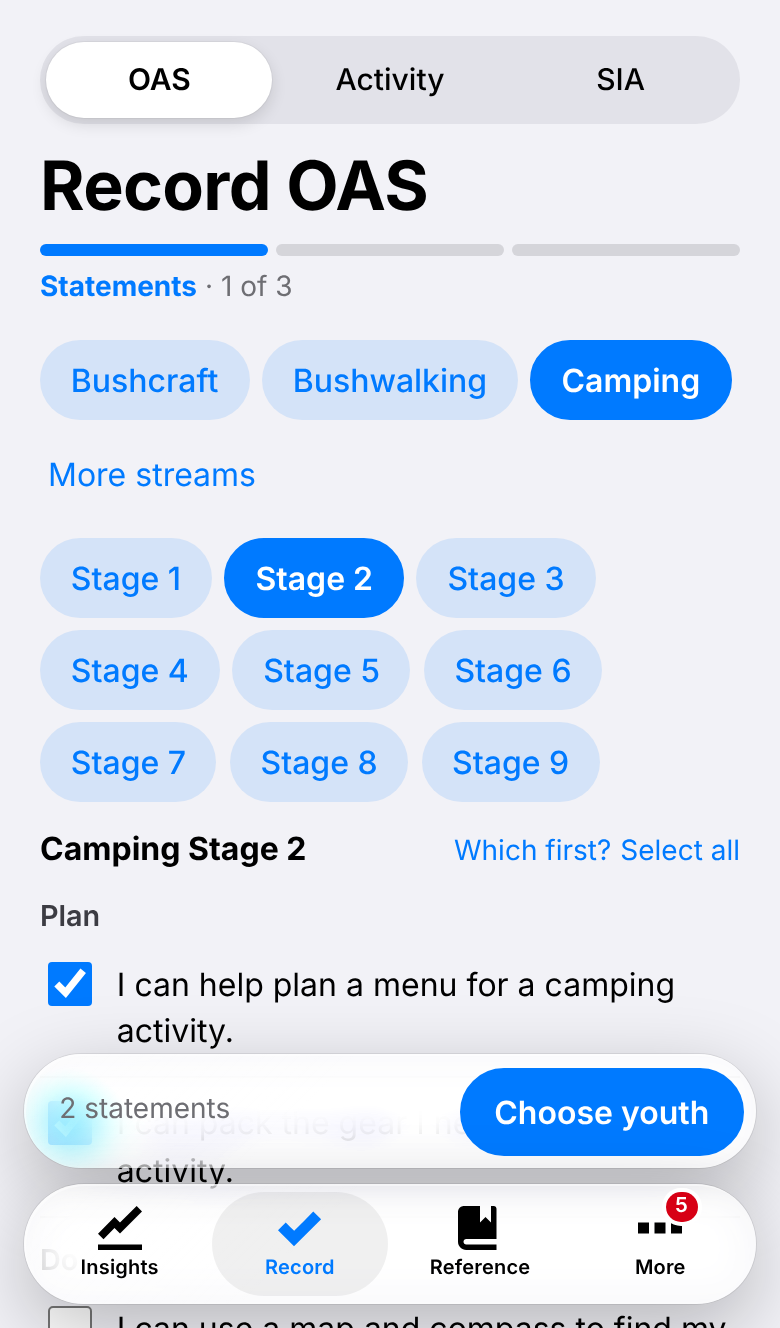
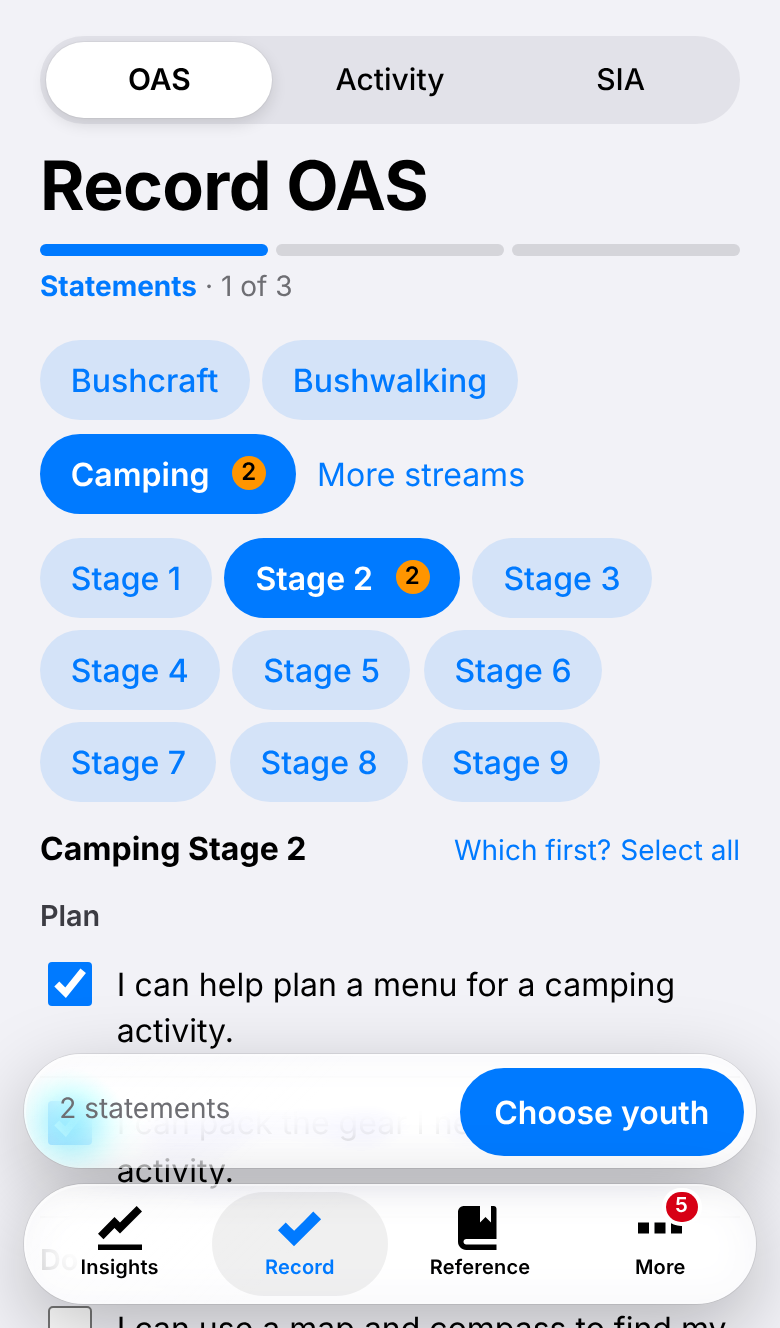
README: screenshots of Patrols, Flow and the youth view, and the others retaken
The screenshots are retaken for the pages that changed (Approvals' tabs, Record's switch, Progress
details, Info), and three are added: Patrols, Insights' Flow, and a youth recording their own OAS.
The screenshot script signs in per shot, so a shot can use its own pretend unit (two units for Flow,
a youth for the youth view). The README's opening says what youth see.

Claude-Session: https://claude.ai/code/session_015mRLp29RKmPLuQrvmduhrB

Changed region(s): [[0.0308, 0.3087, 0.6769, 0.4014], [0.6769, 0.247, 0.9538, 0.3396], [0.4923, 0.4014, 0.8308, 0.4631]]

diff --git a/tests/screenshots/readme.shots.ts b/tests/screenshots/readme.shots.ts
@@ -1,7 +1,7 @@
 // Takes the README's screenshots into docs/screenshots. Every name in them is made up, from the same fake
 // Terrain the page tests use.
 import { expect, test, type Page } from '@playwright/test';
-import { fakeTerrain, logIn, navigate } from '../e2e/terrain.js';
+import { fakeTerrain, logIn, navigate, type FakeOptions } from '../e2e/terrain.js';
 
 const shot = (page: Page, name: string) =>
 	page.screenshot({ path: `docs/screenshots/${name}.png`, animations: 'disabled' });
@@ -19,19 +19,22 @@ const scrollTo = (page: Page, selector: string) =>
 // Sharp on a phone screen without making the README heavy
 test.use({ colorScheme: 'light', deviceScaleFactor: 2 });
 
-test.beforeEach(async ({ page }) => {
-	await fakeTerrain(page, { moreAwards: true });
+/** Signs in to the made-up unit, past the Home Screen hint */
+async function start(page: Page, options: FakeOptions = { moreAwards: true }) {
+	await fakeTerrain(page, options);
 	await logIn(page);
 	await page.getByRole('button', { name: "Don't show again" }).click();
-});
+}
 
 test('info', async ({ page }) => {
+	await start(page);
 	await navigate(page, 'info/');
 	await expect(page.locator('h2').first()).toBeVisible();
 	await shot(page, 'info');
 });
 
 test('insights', async ({ page }) => {
+	await start(page);
 	await navigate(page, 'insights/');
 	await expect(page.locator('.heatmap')).toBeVisible();
 	await scrollTo(page, 'h3:has-text("Unit completion")');
@@ -39,6 +42,7 @@ test('insights', async ({ page }) => {
 });
 
 test('record OAS', async ({ page }) => {
+	await start(page);
 	await navigate(page, 'oas/sign-off/');
 	await page.getByRole('button', { name: 'Camping', exact: true }).click();
 	await page.getByRole('button', { name: 'Stage 2', exact: true }).click();
@@ -51,6 +55,7 @@ test('record OAS', async ({ page }) => {
 });
 
 test('progress', async ({ page }) => {
+	await start(page);
 	await navigate(page, 'progress/');
 	await page.locator('.youth').first().click();
 	await expect(page.locator('.stage-detail').first()).toBeVisible();
@@ -58,12 +63,14 @@ test('progress', async ({ page }) => {
 });
 
 test('approvals', async ({ page }) => {
+	await start(page);
 	await navigate(page, 'approvals/');
 	await expect(page.locator('.approval-card').first()).toBeVisible();
 	await shot(page, 'approvals');
 });
 
 test('reference', async ({ page }) => {
+	await start(page);
 	await navigate(page, 'oas-reference/');
 	await page.getByRole('button', { name: 'Stage 2', exact: true }).click();
 	const statement = page.locator('.statement', { hasText: 'map and compass' }).first();
@@ -72,4 +79,37 @@ test('reference', async ({ page }) => {
 	await scrollTo(page, '.statement');
 	await page.evaluate(() => window.scrollBy(0, -40));
 	await shot(page, 'reference');
+});
+
+test('patrols', async ({ page }) => {
+	await start(page);
+	await navigate(page, 'patrols/');
+	await expect(page.locator('.patrol').first()).toBeVisible();
+	await expect(page.locator('.percent').first()).toBeVisible();
+	await shot(page, 'patrols');
+});
+
+test('flow', async ({ page }) => {
+	await start(page, {
+		units: [
+			{ id: 'unit-1', name: 'Mt Example Scouts', section: 'scout' },
+			{ id: 'cub-1', name: 'Mt Example Cubs', section: 'cub' }
+		]
+	});
+	await page.selectOption('#page-unit', 'unit-1');
+	await page.getByRole('tab', { name: 'Flow' }).click();
+	await expect(page.locator('.chart > li').first()).toBeVisible();
+	await page.locator('.chart > li').first().locator('summary').click();
+	await scrollTo(page, '.flow-card');
+	await shot(page, 'flow');
+});
+
+test('youth record OAS', async ({ page }) => {
+	await start(page, { youth: true });
+	await page.locator('.tab-bar .tab', { hasText: 'Record' }).click();
+	await page.selectOption('#stage', { label: 'Bushwalking 4' });
+	await expect(page.getByText('4 of 7 done in Terrain')).toBeVisible();
+	await page.getByRole('button', { name: 'Tick all remaining' }).click();
+	await page.evaluate(() => window.scrollTo(0, 0));
+	await shot(page, 'youth-record-oas');
 });

diff --git a/README.md b/README.md
@@ -1,18 +1,20 @@
 # Beacon
 
-Beacon is a phone-first helper for Scouts Australia leaders. It reads your unit's records from [Terrain](https://terrain.scouts.com.au) and turns them into the things you need at the hall: who's close to finishing what, what to programme next, and quick OAS sign offs after a unit night.
+Beacon is a phone-first helper for Scouts Australia leaders. It reads your unit's records from [Terrain](https://terrain.scouts.com.au) and turns them into the things you need at the hall: who's close to finishing what, what to programme next, and quick OAS sign offs after a unit night. Youth members get a view of their own: their progress, recording their own OAS, and Approvals when they're on the Unit Council.
 
 **Use it at https://no5tyle.github.io/Beacon/**, and add it to your phone's Home Screen. The OAS reference also installs on its own as Beacon Reference, which works without signal.
 
 ## Screenshots
 
-|                                                                           Info                                                                            |                                                                           Insights                                                                           |                                                               Record OAS                                                                |
-| :-------------------------------------------------------------------------------------------------------------------------------------------------------: | :----------------------------------------------------------------------------------------------------------------------------------------------------------: | :-------------------------------------------------------------------------------------------------------------------------------------: |
-|                                 <img src="docs/screenshots/info.png" width="240" alt="Info, with what each page is for">                                  | <img src="docs/screenshots/insights.png" width="240" alt="Insights: how many youth have completed each OAS stage, and the most common missing requirements"> |       <img src="docs/screenshots/record-oas.png" width="240" alt="Record OAS: choosing statements to sign off for several youth">       |
-|                                                                       **Progress**                                                                        |                                                                        **Approvals**                                                                         |                                                              **Reference**                                                              |
-| <img src="docs/screenshots/progress.png" width="240" alt="A youth's progress: who they are, their award and milestone at a glance, and their next steps"> |              <img src="docs/screenshots/approvals.png" width="240" alt="Approvals: submissions waiting for the Unit Council, grouped by youth">              | <img src="docs/screenshots/reference.png" width="240" alt="The OAS reference, with a statement expanded to show Terrain's explanation"> |
+|                                                                           Info                                                                            |                                                                           Insights                                                                           |                                                                             Record OAS                                                                             |
+| :-------------------------------------------------------------------------------------------------------------------------------------------------------: | :----------------------------------------------------------------------------------------------------------------------------------------------------------: | :----------------------------------------------------------------------------------------------------------------------------------------------------------------: |
+|                                 <img src="docs/screenshots/info.png" width="240" alt="Info, with what each page is for">                                  | <img src="docs/screenshots/insights.png" width="240" alt="Insights: how many youth have completed each OAS stage, and the most common missing requirements"> |                    <img src="docs/screenshots/record-oas.png" width="240" alt="Record OAS: choosing statements to sign off for several youth">                     |
+|                                                                       **Progress**                                                                        |                                                                        **Approvals**                                                                         |                                                                           **Reference**                                                                            |
+| <img src="docs/screenshots/progress.png" width="240" alt="A youth's progress: who they are, their award and milestone at a glance, and their next steps"> |                  <img src="docs/screenshots/approvals.png" width="240" alt="Approvals in Approve, Award and Submit tabs, grouped by youth">                  |              <img src="docs/screenshots/reference.png" width="240" alt="The OAS reference, with a statement expanded to show Terrain's explanation">               |
+|                                                                        **Patrols**                                                                        |                                                                       **Section flow**                                                                       |                                                                       **Youth: Record OAS**                                                                        |
+|         <img src="docs/screenshots/patrols.png" width="240" alt="Patrols: each patrol's youth with their award percentage and when they move up">         |   <img src="docs/screenshots/flow.png" width="240" alt="Insights' Flow: youth moving up into and out of the unit each term, and the patrols that shrink">    | <img src="docs/screenshots/youth-record-oas.png" width="240" alt="A youth recording their own OAS statements, with Record, Progress and Reference in the tab bar"> |
 
-Every name in these is made up. `npm run screenshots` takes them again, from the same pretend unit the page tests use.
+The youth view is what a member sees in a unit they're youth in. Every name in these is made up. `npm run screenshots` takes them again, from the same pretend unit the page tests use.
 
 Beacon is built with [Svelte](https://svelte.dev) and [SvelteKit](https://svelte.dev/docs/kit). It replaced the original Blazor version (now [no5tyle/Beacon-blazor](https://github.com/no5tyle/Beacon-blazor), archived). Every push to `main` is checked and published to the address above.
 
